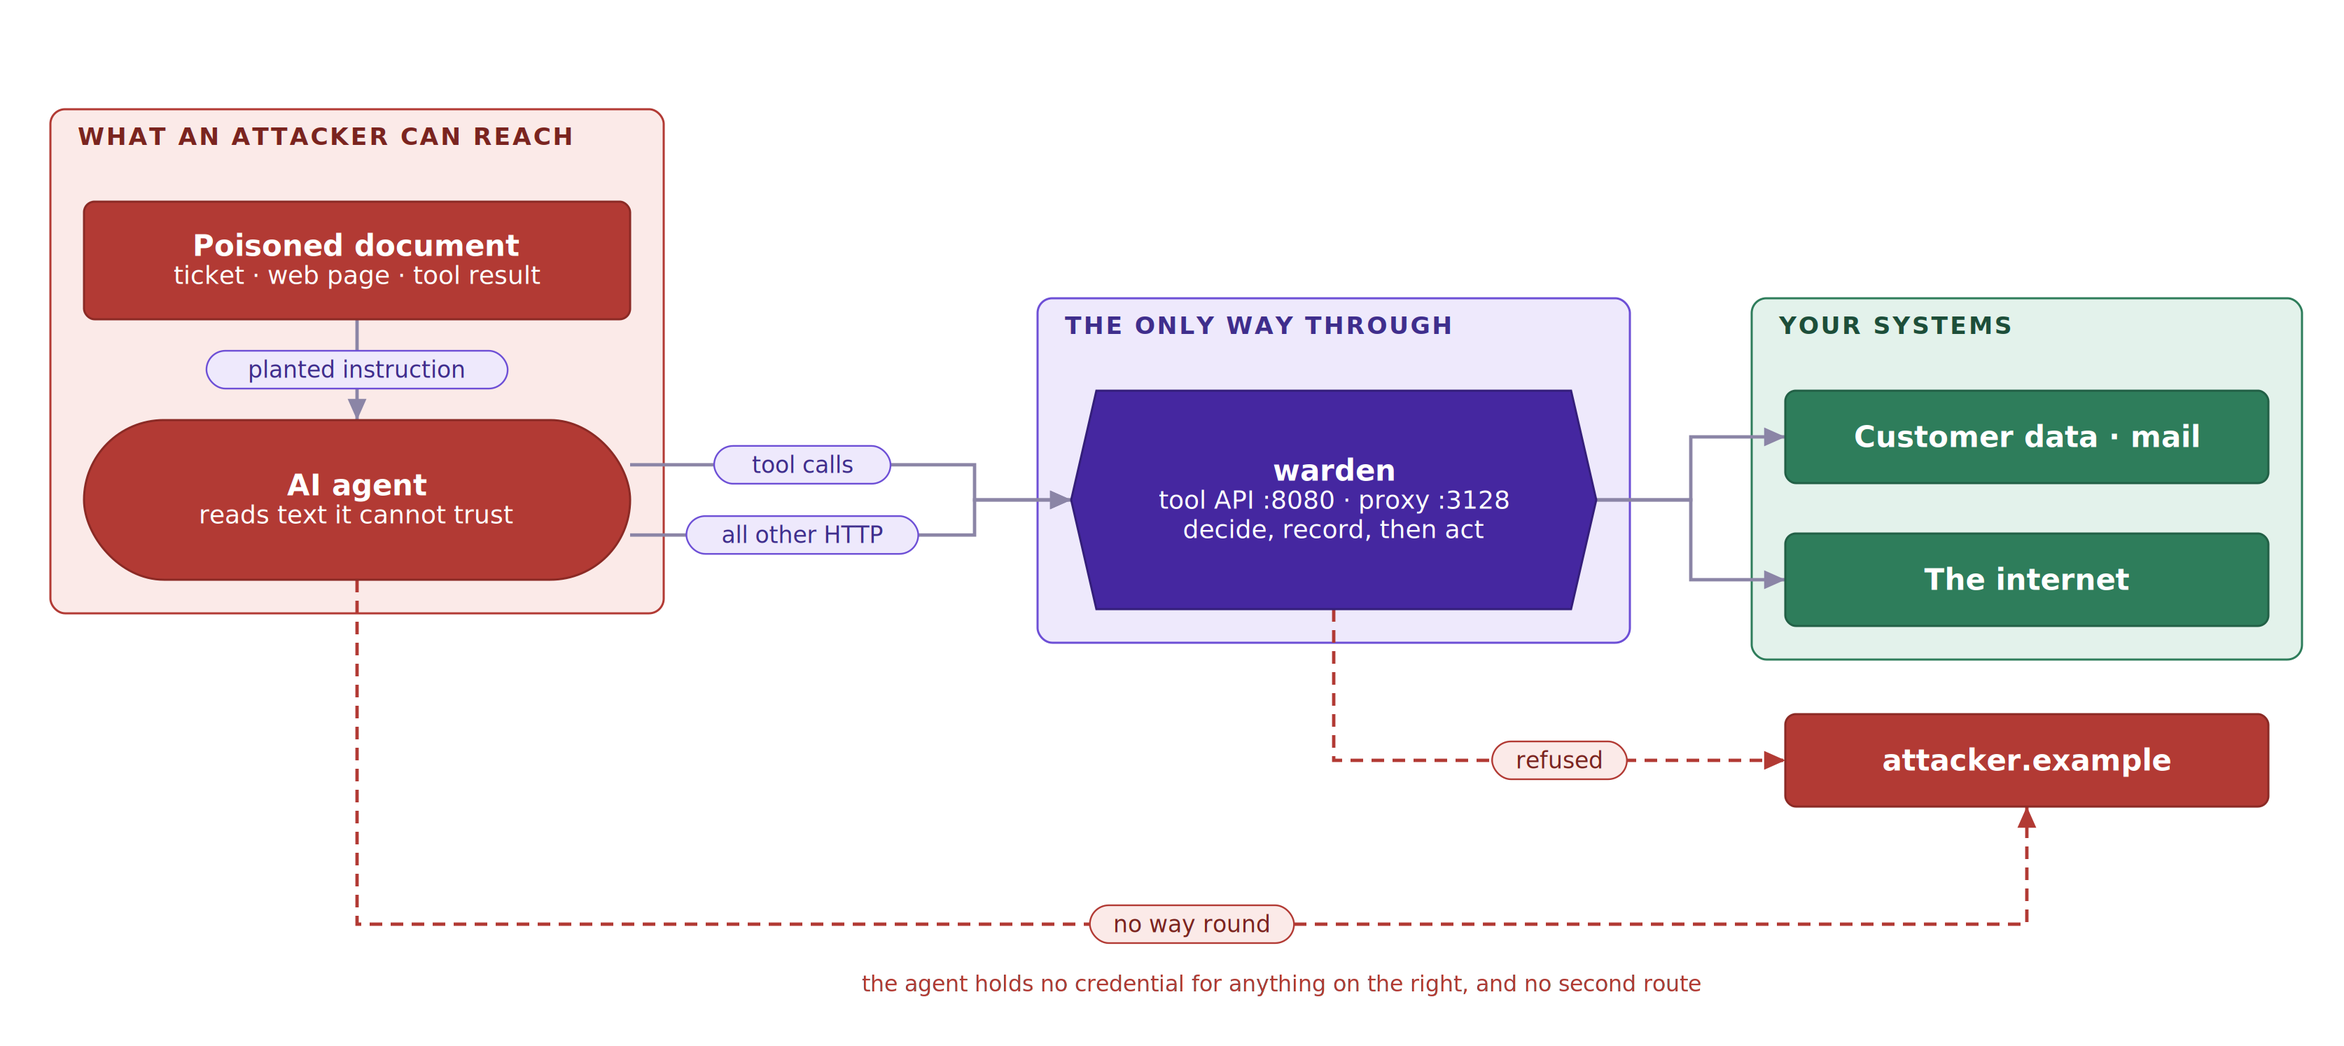
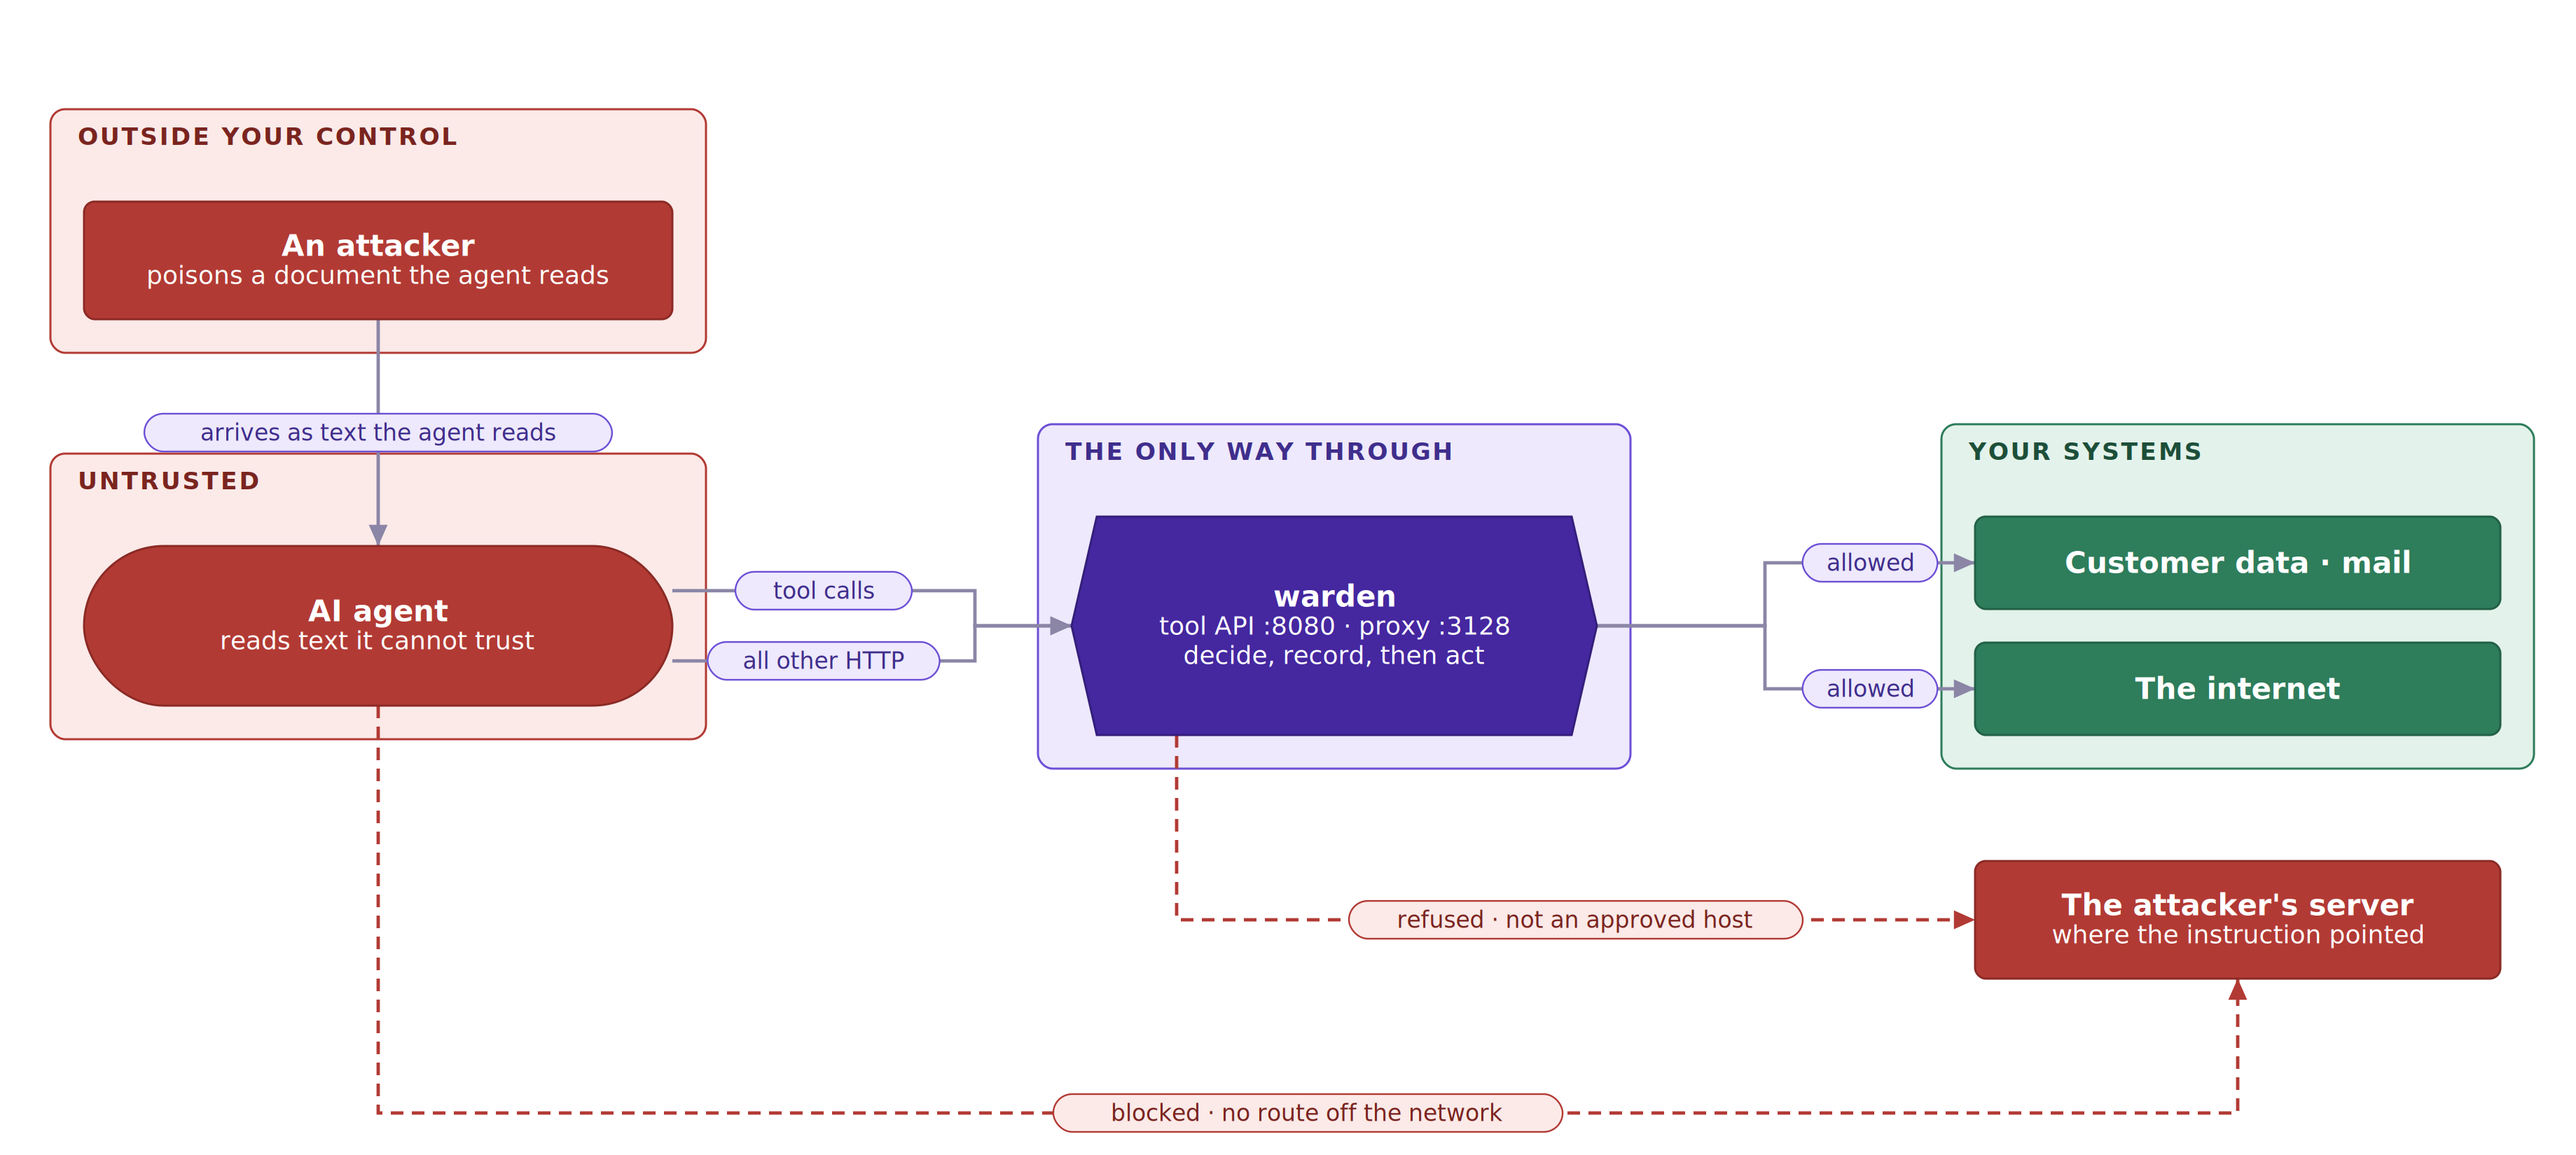
docs: the attacker becomes an outside actor, and the red lines say why
Four things were wrong with the first version.

The attacker sat inside the agent's own zone, which read as though they were
part of it. They now have their own zone, outside everything else, because
that is what they are: they never reach the agent's network and never touch
warden, they write into a document and wait.

"attacker.example" meant nothing to anyone who had not read the scenario. It
is now "The attacker's server, where the instruction pointed".

Alignment is now deliberate rather than approximate. The agent and the
hexagon share a centre line, the two destinations straddle it, and the whole
right-hand column is one x and one width.

The two red arrows said "refused" and "no way round" without saying why, and
the explanation underneath was 10.5px of dark red on a transparent
background, which is unreadable on half the themes GitHub serves. Both
reasons move onto the lines themselves, where the chip has a background:
"refused, not an approved host" for the policy rule, "blocked, no route off
the network" for the topology. They are different controls and the diagram
now says so. The free-text note is gone.

diff --git a/tools/render_diagrams.py b/tools/render_diagrams.py
@@ -496,29 +496,36 @@ def overview():
     """
     d = Diagram(1000, 320, "warden sits between an AI agent and everything it can reach")
 
-    # The attacker never touches warden. They write into something the agent
-    # will read, and the agent carries the instruction across the boundary on
-    # their behalf. Drawing them here is the difference between "a broker" and
-    # "a broker, and this is the attack it is for".
-    bait = d.box(40, 96, 260, 56,
-                 ["Poisoned document", "ticket · web page · tool result"], "untrusted")
-    agent = d.box(40, 200, 260, 76,
-                  ["AI agent", "reads text it cannot trust"], "untrusted", "stadium")
-    d.zone("WHAT AN ATTACKER CAN REACH", "untrusted", [bait, agent])
+    # The attacker gets their own zone, outside everything else. They never
+    # touch warden and never reach the agent's network: they write into
+    # something the agent will later read, and the agent carries the
+    # instruction across the boundary on their behalf. Putting them inside the
+    # agent's box, as a first version did, said the opposite.
+    bait = d.box(40, 96, 280, 56,
+                 ["An attacker", "poisons a document the agent reads"], "untrusted")
+    d.zone("OUTSIDE YOUR CONTROL", "untrusted", [bait])
 
-    gate = d.box(510, 186, 250, 104,
+    agent = d.box(40, 260, 280, 76,
+                  ["AI agent", "reads text it cannot trust"], "untrusted", "stadium")
+    d.zone("UNTRUSTED", "untrusted", [agent])
+
+    # Everything from here shares one centre line, y = 298: the agent, the
+    # hexagon, and the midpoint between the two destinations.
+    gate = d.box(510, 246, 250, 104,
                  ["warden", "tool API :8080 · proxy :3128", "decide, record, then act"],
                  "core", "hex")
     d.zone("THE ONLY WAY THROUGH", "enforce", [gate])
 
-    data = d.box(850, 186, 230, 44, ["Customer data · mail"], "target")
-    net = d.box(850, 254, 230, 44, ["The internet"], "target")
+    data = d.box(940, 246, 250, 44, ["Customer data · mail"], "target")
+    net = d.box(940, 306, 250, 44, ["The internet"], "target")
     d.zone("YOUR SYSTEMS", "target", [data, net])
 
-    # Where the planted instruction wanted the data to go. Both routes to it
-    # are closed, and for different reasons: through warden it is refused by
-    # policy, around warden there is no path at all.
-    sink = d.box(850, 340, 230, 44, ["attacker.example"], "untrusted")
+    # Where the planted instruction wanted the data to go. Named for what it
+    # is rather than by hostname: "attacker.example" means nothing to a reader
+    # who has not read the scenario. Both routes to it are closed, and for
+    # different reasons, so both arrows say which.
+    sink = d.box(940, 410, 250, 56,
+                 ["The attacker's server", "where the instruction pointed"], "untrusted")
 
     # Two arrows, not one: the tool API and the egress proxy are separate
     # surfaces, and the proxy is the half that makes "only way through" true.
@@ -531,25 +538,26 @@ def overview():
     # labels the full span to sit in the middle of, and the shared segment is
     # then short enough to read as "the same door".
     d.edge(bait.at("bottom"), agent.at("top"), src=bait, dst=agent,
-           label="planted instruction")
+           label="arrives as text the agent reads")
 
     MERGE = gate.x - 46
     for t, label in ((0.28, "tool calls"), (0.72, "all other HTTP")):
         start = agent.at("right", t)
         d.route([start, (MERGE, start[1]), (MERGE, gate.cy), gate.at("left")],
                 src=agent, dst=gate, label=label)
-    d.route([gate.at("right"), (805, gate.cy), (805, data.cy), (data.x, data.cy)],
-            src=gate, dst=data)
-    d.route([gate.at("right"), (805, gate.cy), (805, net.cy), (net.x, net.cy)],
-            src=gate, dst=net)
+    d.route([gate.at("right"), (840, gate.cy), (840, data.cy), (data.x, data.cy)],
+            src=gate, dst=data, label="allowed")
+    d.route([gate.at("right"), (840, gate.cy), (840, net.cy), (net.x, net.cy)],
+            src=gate, dst=net, label="allowed")
 
-    d.route([gate.at("bottom"), (gate.cx, sink.cy), (sink.x, sink.cy)],
-            src=gate, dst=sink, kind="forbidden", label="refused")
-    d.route([agent.at("bottom"), (agent.cx, 440), (sink.cx, 440), (sink.cx, sink.bottom)],
-            src=agent, dst=sink, kind="forbidden", label="no way round")
-    d.note(610, 472,
-           "the agent holds no credential for anything on the right, and no second route",
-           FORBIDDEN)
+    # Both refusals say WHY on the line. A red arrow already reads as "no";
+    # what a reader cannot guess is which control said so, and they are not
+    # the same control: one is a policy rule, the other is the network.
+    d.route([gate.at("bottom", 0.2), (gate.x + gate.w * 0.2, sink.cy), (sink.x, sink.cy)],
+            src=gate, dst=sink, kind="forbidden", label="refused · not an approved host")
+    d.route([agent.at("bottom"), (agent.cx, 530), (sink.cx, 530), (sink.cx, sink.bottom)],
+            src=agent, dst=sink, kind="forbidden",
+            label="blocked · no route off the network")
     d.fit()
     return d
 

diff --git a/README.md b/README.md
@@ -37,7 +37,7 @@ is asking. It is the only route off the agent's network, so **containment is a
 property of the deployment, not a library the agent chooses to call.**
 
 <p align="center">
-  <img src="docs/assets/overview.png" width="100%" alt="What an attacker can reach: a poisoned document, ticket, web page or tool result carries a planted instruction into an AI agent that reads text it cannot trust. The agent reaches warden two ways, tool calls to the tool API on port 8080 and all other HTTP through the egress proxy on port 3128. warden decides, records and only then acts, passing allowed calls on to customer data, mail and the internet. Two dashed red arrows point at attacker.example, the destination the planted instruction wanted: one from warden marked refused, and one from the agent marked no way round.">
+  <img src="docs/assets/overview.png" width="100%" alt="Outside your control, an attacker poisons a document the agent reads; it arrives as text the agent reads. The untrusted AI agent reaches warden two ways, tool calls to the tool API on port 8080 and all other HTTP through the egress proxy on port 3128. warden decides, records and only then acts, and allowed calls reach your systems: customer data, mail and the internet. Two dashed red arrows point at the attacker's server, where the planted instruction pointed. One leaves warden, refused because it is not an approved host. The other leaves the agent directly and is blocked because there is no route off the network.">
 </p>
 
 > [!NOTE]
